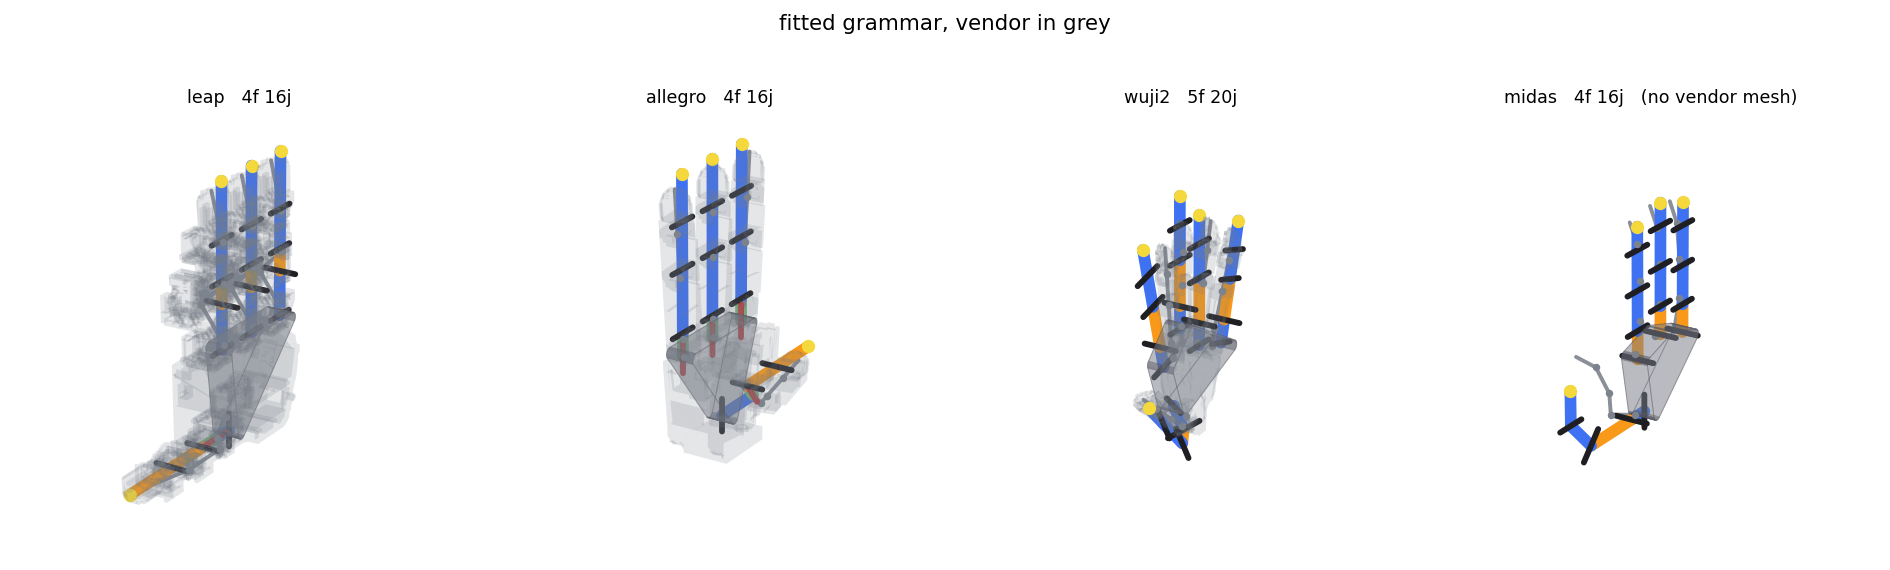
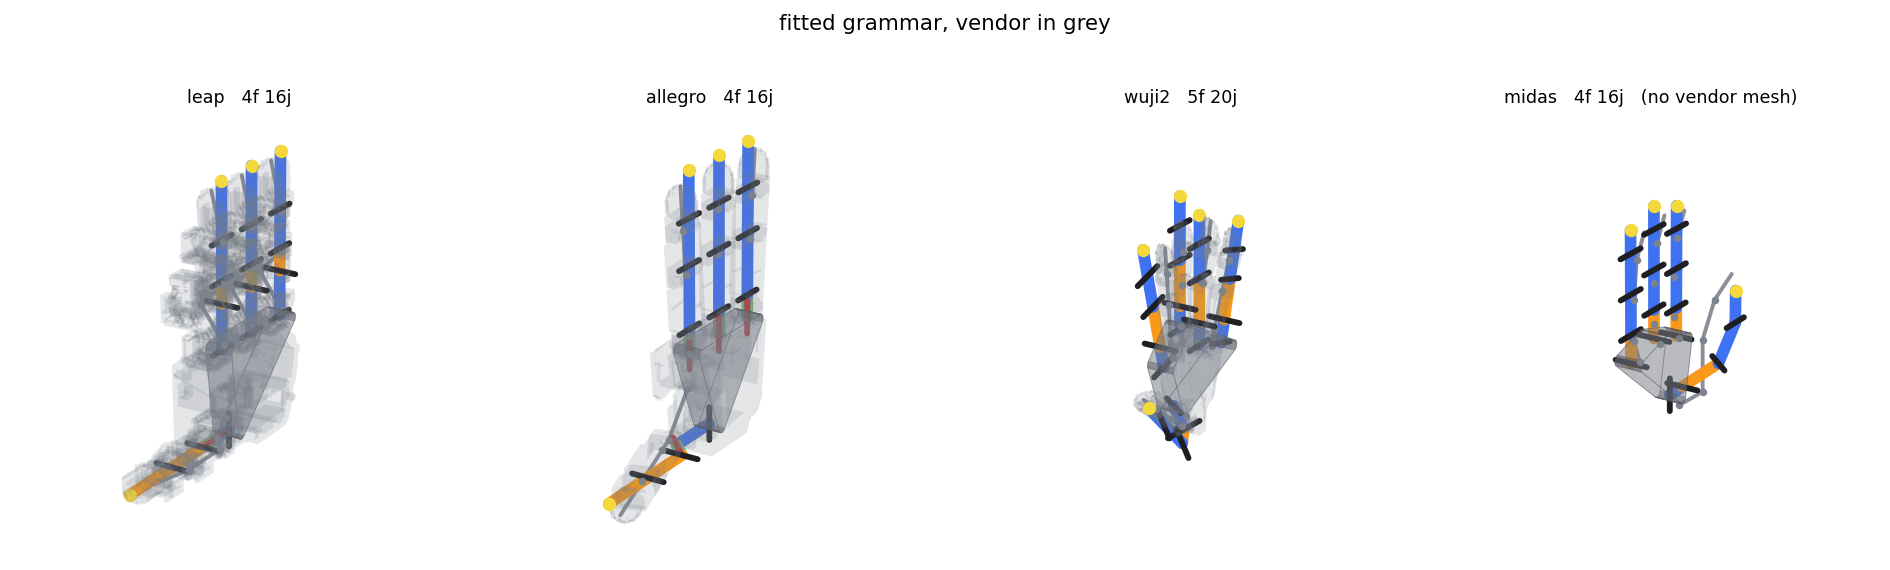
commercial.fit: the palm normal faces where the fingers flex; Allegro and MIDAS replicas were built back to front
_palm_axes took x = y cross z with y from the first row base to the last, so the vendor's digit order alone decided
whether x faced the grasp or the back of the hand. For Allegro and MIDAS it faced the back: the replicas were turned
180 degrees about the fingers, thumb opposing from the wrong side (Allegro: 42 mm cube spawn gap across the palm).
Digits now carry their URDF joint limits; x is flipped (with y, about z) when it opposes the flexion direction. All
four frames agree with onboarding's palm_frame; overlay base errors unchanged; 60/60 commercial tests pass.
Replicas regenerated.

Claude-Session: https://claude.ai/code/session_01VEjfLD7vkNCwPYPC2HsL71

Changed region(s): [[0.3122, 0.2386, 0.437, 0.9246], [0.8116, 0.3281, 0.9365, 0.8053]]

diff --git a/hand_sampler/commercial.py b/hand_sampler/commercial.py
@@ -97,6 +97,7 @@ class Digit:
     pos: np.ndarray        # (n, 3) joint origins
     axis: np.ndarray       # (n, 3) unit hinge axes
     tip: np.ndarray        # (3,)
+    limits: tuple = ()     # (lower, upper) per joint, from the URDF: which way the finger flexes
 
 
 # --- reading the vendor hand ------------------------------------------------
@@ -112,6 +113,8 @@ def _read(path: Path) -> dict:
             rpy=np.array([float(v) for v in (o.get("rpy", "0 0 0")).split()]),
             axis=np.array([float(v) for v in
                            ((a.get("xyz", "0 0 1") if a is not None else "0 0 1")).split()]),
+            limit=((float(j.find("limit").get("lower", 0.0)), float(j.find("limit").get("upper", 0.0)))
+                   if j.find("limit") is not None else (0.0, 0.0)),
             type=j.get("type"))
     return out
 
@@ -188,7 +191,8 @@ def digits(name_or_path: "str | Path" = "leap") -> list[Digit]:
                 if np.linalg.norm(nxt[:3, 3] - T[:3, 3]) > np.linalg.norm(tip - T[:3, 3]):
                     tip = nxt[:3, 3].copy()
                 stack.append((nxt, d["child"]))
-        out.append(Digit(root_joint, tuple(chain), np.array(pos), np.array(axis), tip))
+        out.append(Digit(root_joint, tuple(chain), np.array(pos), np.array(axis), tip,
+                         tuple(J[n]["limit"] for n in chain)))
     return out
 
 
@@ -335,7 +339,28 @@ def _palm_axes(row: list[Digit]) -> np.ndarray:
     y = y - z * float(y @ z)
     y = y / float(np.linalg.norm(y))
     x = np.cross(y, z)
+    # y runs from the FIRST row base to the LAST, so the vendor's digit order alone decided whether x faced the
+    # grasp or the back of the hand. Allegro's and MIDAS's faced the back: their replicas were built turned 180
+    # degrees about the fingers, thumb opposing from the wrong side. x must point where the fingers close; turning
+    # about z (x and y both flip) keeps the frame right-handed and the hand unmirrored.
+    if float(x @ _grasp_side(row)) < 0.0:
+        x, y = -x, -y
     return np.column_stack([x, y, z])
+
+
+def _grasp_side(row: list[Digit]) -> np.ndarray:
+    """Which way the row's fingers CLOSE, a unit vector in vendor coordinates.
+
+    A finger flexes further than it hyper-extends, so the larger side of a joint's travel is flexion, and
+    turning that way moves the tip along ``axis x (tip - joint)``. Summed over every joint of the row; an
+    abduction joint's motion is sideways and a symmetric joint's sign is zero, so the flexion joints decide.
+    """
+    v = np.zeros(3)
+    for d in row:
+        for (lo, hi), pos, axis in zip(d.limits, d.pos, d.axis):
+            v += np.sign(lo + hi) * np.cross(axis, d.tip - pos)
+    n = float(np.linalg.norm(v))
+    return v / n if n > 1e-12 else v
 
 
 def _lean_for(direction: np.ndarray) -> int:
